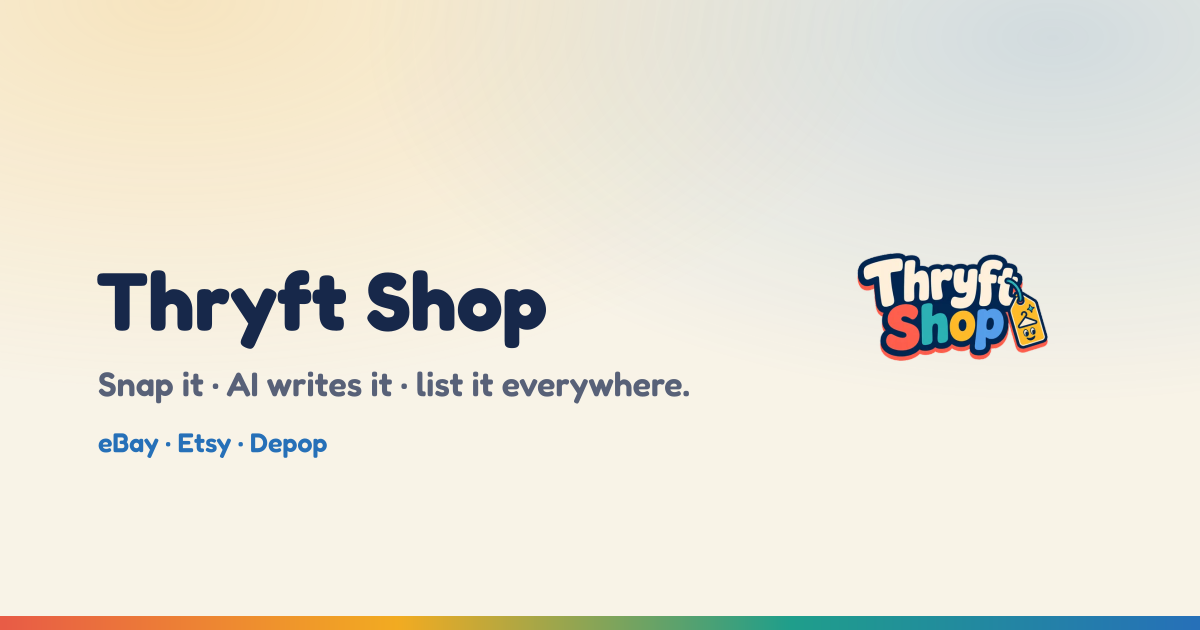
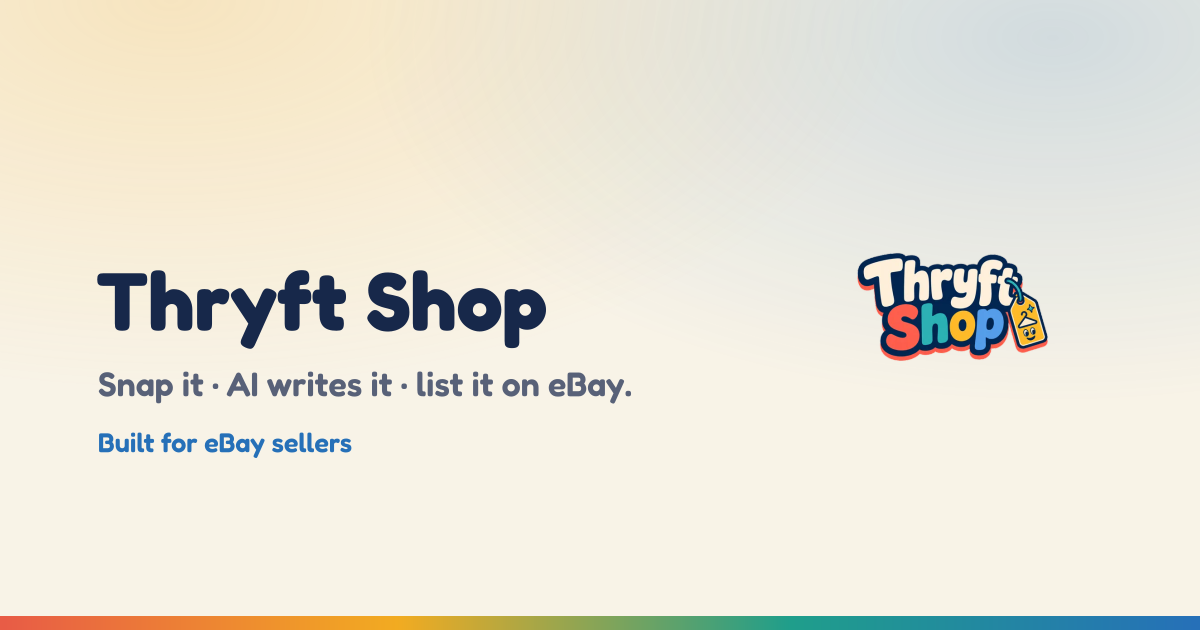
Pitch the app and the site as an eBay tool, not "list it everywhere"
The launch is eBay alone (Etsy and Depop are built but switched off), but
the site still led with "List it everywhere", the OG card named all three
marketplaces, and a dozen lines said "marketplace" where the only one a
seller can connect is eBay.

Marketing: the tagline, hero, OG card, FAQ, About, How it works, Pricing,
Security, Mobile, footer, llms.txt and one blog line now say eBay. The
"Publishes to" strip reads "Built for", and the roadmap promise of more
marketplaces is gone. Legal pages are unchanged.

App: the inbox's empty states and buttons say "Connect eBay", the AI
consent note names eBay, the first-listing empty states say "eBay
listing", and the pre-publish check says "Checking everything eBay
requires…" unless the publish really goes to more than one marketplace.
The multi-marketplace paths gated on MARKETPLACES_ENABLED are unchanged.

Claude-Session: https://claude.ai/code/session_01689KdQSFRuLhvAcrG4d5bJ

Changed region(s): [[0.0617, 0.6635, 0.3083, 0.7238], [0.4317, 0.573, 0.5858, 0.6333]]

diff --git a/frontend/src/components/MessagesInbox.jsx b/frontend/src/components/MessagesInbox.jsx
@@ -74,18 +74,18 @@ export function ConversationRow({ conversation: c, active, showSource, onClick }
 export function inboxEmptyCopy(messages) {
   const { reason, message, sources } = messages;
   if (reason === "not_connected" || reason === "disabled") {
-    return message || "Connect a marketplace to see buyer messages here.";
+    return message || "Connect eBay to see buyer messages here.";
   }
   if (reason === "needs_reconnect") {
     return message || "Reconnect in Settings to grant message access.";
   }
   if (reason === "error") {
-    return message || "Couldn't reach your marketplaces just now.";
+    return message || "Couldn't reach eBay just now.";
   }
   const live = (sources || []).filter((s) => s.available).length;
   return live
     ? "No buyer messages yet. Questions from buyers land here — never eBay's own mail."
-    : "No marketplace is connected for messages yet.";
+    : "Connect eBay to see buyer messages here.";
 }
 
 // MessagesInbox — the TopBar inbox: unread badge, recent conversations, and a
@@ -172,7 +172,7 @@ export function MessagesInbox() {
                 {messages.reason === "not_connected" && (
                   <Button variant="soft" size="sm" className="mt-3"
                     onClick={() => { setOpen(false); setView("settings"); }}>
-                    Connect a marketplace
+                    Connect eBay
                   </Button>
                 )}
               </div>

diff --git a/marketing/src/lib/site.js b/marketing/src/lib/site.js
@@ -70,7 +70,7 @@ export function appLink(href) {
 
 export const site = {
   name: "Thryft Shop",
-  tagline: "Snap it · AI writes it · list it everywhere.",
+  tagline: "Snap it · AI writes it · list it on eBay.",
   description:
     "Turn product photos into complete, ready-to-publish eBay listings — " +
     "title, description, item specifics, category and price, from a photo.",
@@ -202,7 +202,7 @@ export const pipeline = [
   {
     key: "optimize",
     step: "02",
-    title: "Cleaned up for the marketplace",
+    title: "Cleaned up for eBay",
     blurb:
       "Auto-orient, cut the background onto a white canvas with a soft contact shadow, square-frame the item at the photo's own scale — never a crop-in zoom — resize to 1600px and finish with a sharpen.",
     detail: "Pillow · eBay's own image recommendations",

diff --git a/frontend/src/views/MessagesView.jsx b/frontend/src/views/MessagesView.jsx
@@ -77,7 +77,7 @@ export function MessagesView() {
       <div className="flex items-center gap-3 flex-wrap">
         <h1 className="font-display font-bold text-[22px] text-ink">Messages</h1>
         <span className="text-[12px] text-ink-secondary">
-          Questions from buyers — never marketplace system mail.
+          Questions from buyers — never eBay's own mail.
         </span>
         <div className="ml-auto">
           <SourceTabs
@@ -107,7 +107,7 @@ export function MessagesView() {
               {messages.reason === "not_connected" && (
                 <Button variant="soft" size="sm" className="mt-3"
                   onClick={() => openSettings("ebay-account")}>
-                  Connect a marketplace
+                  Connect eBay
                 </Button>
               )}
             </div>

diff --git a/marketing/src/pages/llms.txt.js b/marketing/src/pages/llms.txt.js
@@ -50,8 +50,8 @@ export async function GET(context) {
     `> ${site.description}`,
     "",
     "Photograph an item and get back a finished listing — title, description,",
-    "item specifics, category and suggested price — then publish it to the",
-    "marketplaces you have connected. Nothing is published without the seller",
+    "item specifics, category and suggested price — then publish it straight",
+    "to the seller's own eBay account. Nothing is published without the seller",
     "reviewing the draft first.",
     "",
     "## Marketplace availability",

diff --git a/frontend/src/views/Dashboard.jsx b/frontend/src/views/Dashboard.jsx
@@ -1186,7 +1186,7 @@ export function Dashboard() {
               illustration={ListingsIllustration}
               title="No listings yet"
               message={user
-                ? "Let's create your first listing — snap a few photos and the AI writes the rest."
+                ? "Let's create your first eBay listing — snap a few photos and the AI writes the rest."
                 : "Log in to keep your listings, or jump straight in and create one."}
               action={
                 <Button variant="primary" size="lg" onClick={openUploader}>

diff --git a/frontend/src/views/listing/useListingForm.js b/frontend/src/views/listing/useListingForm.js
@@ -810,7 +810,9 @@ export function useListingForm() {
 
   // ---------- pre-publish checklist ----------
   const runPreflight = useCallback(async () => {
-    setAiBusy(["Checking everything the marketplaces require…"]);
+    setAiBusy([chipTargets && chipTargets.length > 1
+      ? "Checking everything the marketplaces require…"
+      : "Checking everything eBay requires…"]);
     try {
       // The mode the PUBLISH will actually run in: an edit to a live listing
       // is a revise, and the server checks a revise against what it resends,

diff --git a/frontend/src/components/AiConsentDialog.jsx b/frontend/src/components/AiConsentDialog.jsx
@@ -69,8 +69,8 @@ export function AiConsentDialog() {
             </span>
           ))}{" "}
           for analysis. They're used only to create your listing —
-          never for ads, and never shared beyond the marketplaces you choose
-          to publish to. Details are in our{" "}
+          never for ads, and never shared beyond eBay when you choose to
+          publish there. Details are in our{" "}
           <SiteLink path="/privacy-policy"
             className="text-blue underline">privacy policy</SiteLink>.
         </p>

diff --git a/frontend/src/views/ListingsView.jsx b/frontend/src/views/ListingsView.jsx
@@ -102,7 +102,7 @@ export const TABS = [
       + "archive (finished listings sit at the end)",
     empty: {
       illustration: ListingsIllustration, title: "No listings yet",
-      message: "Let's create your first listing — snap a few photos and the AI writes the rest.",
+      message: "Let's create your first eBay listing — snap a few photos and the AI writes the rest.",
       action: { label: "Create Listing", icon: PlusCircle, go: "new" },
     },
   },

diff --git a/marketing/src/content/blog/how-many-photos.md b/marketing/src/content/blog/how-many-photos.md
@@ -27,8 +27,8 @@ frame, in focus.
 
 That single photo is doing something none of the others can: it turns brand,
 size, fabric composition and country of manufacture from *guesses* into
-*facts*. Those are item specifics, and item specifics are what marketplace
-search filters on. A buyer narrowing to "Medium" never sees a listing where
+*facts*. Those are item specifics, and item specifics are what eBay search
+filters on. A buyer narrowing to "Medium" never sees a listing where
 size is blank — no matter how good the title is.
 
 It is also the most tedious part of listing by hand, which makes it the part
